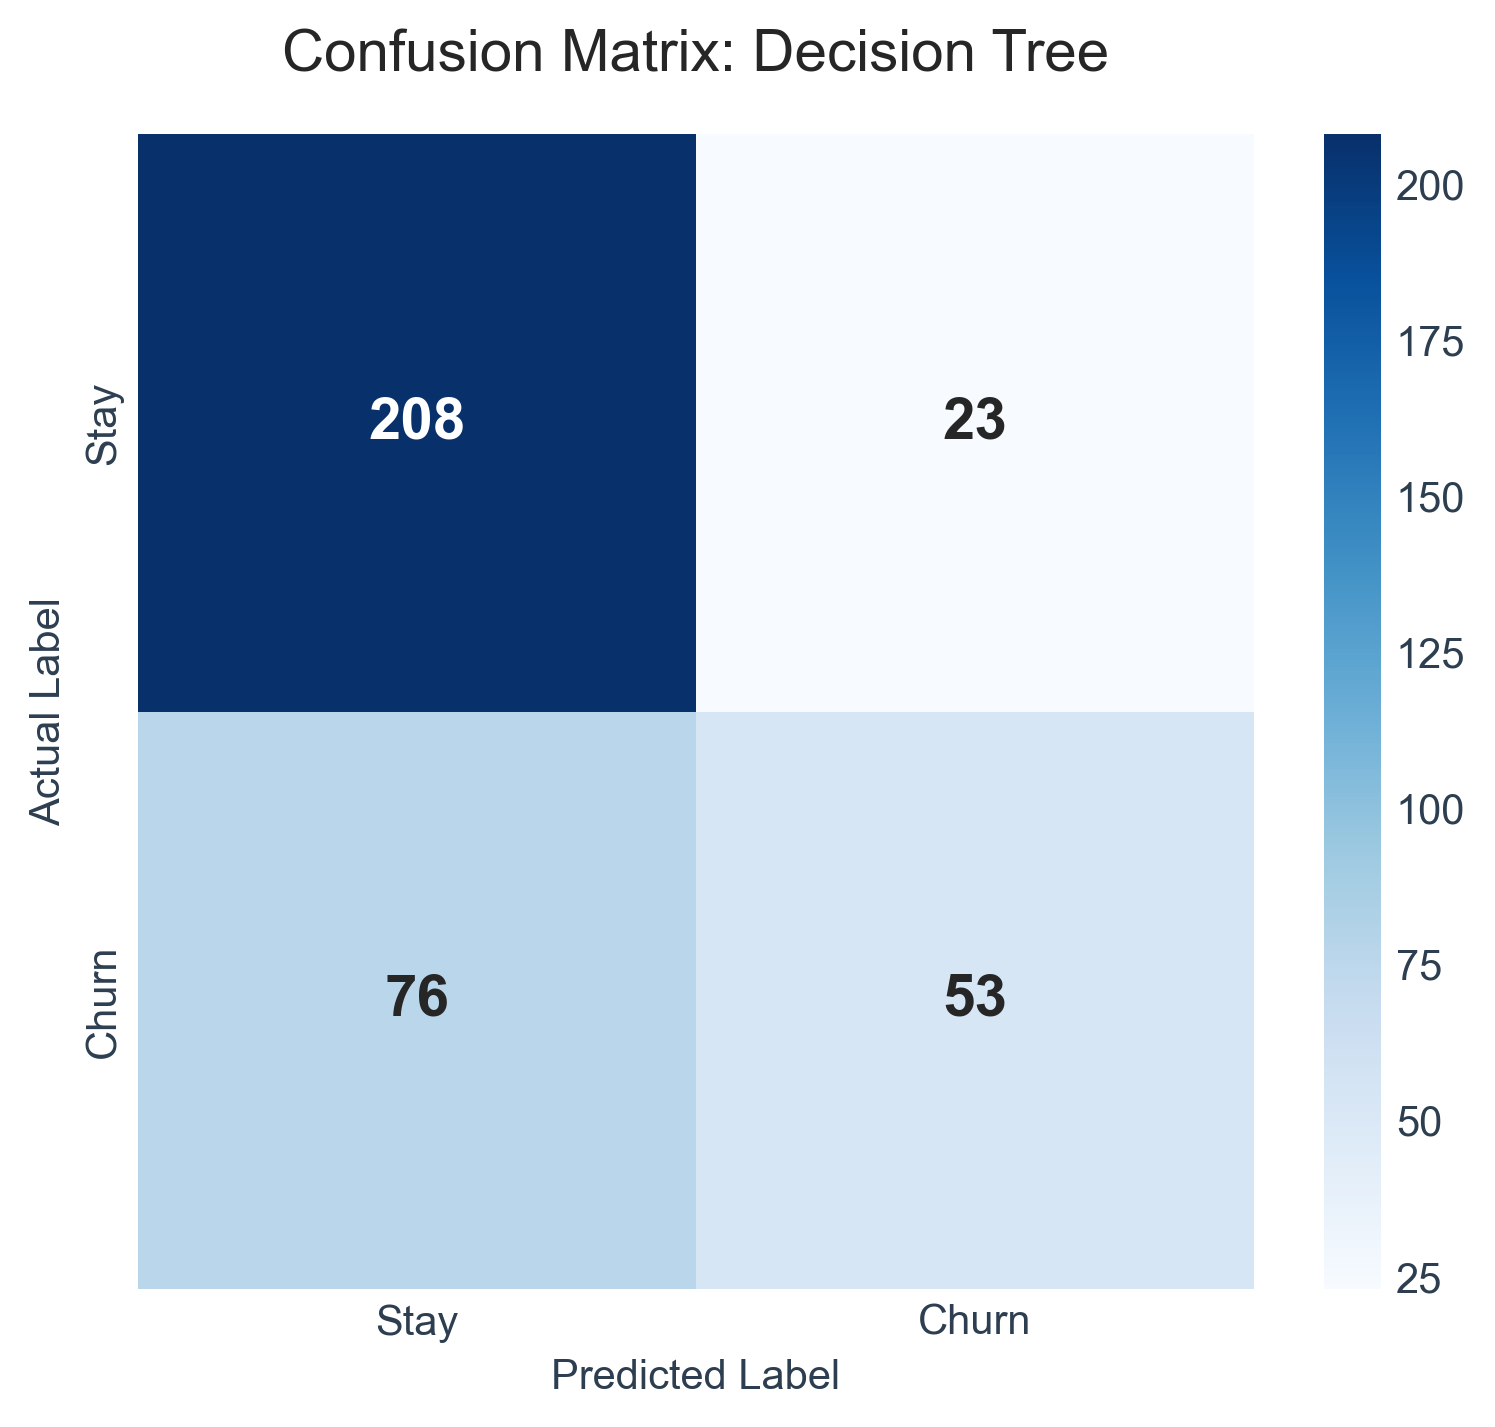
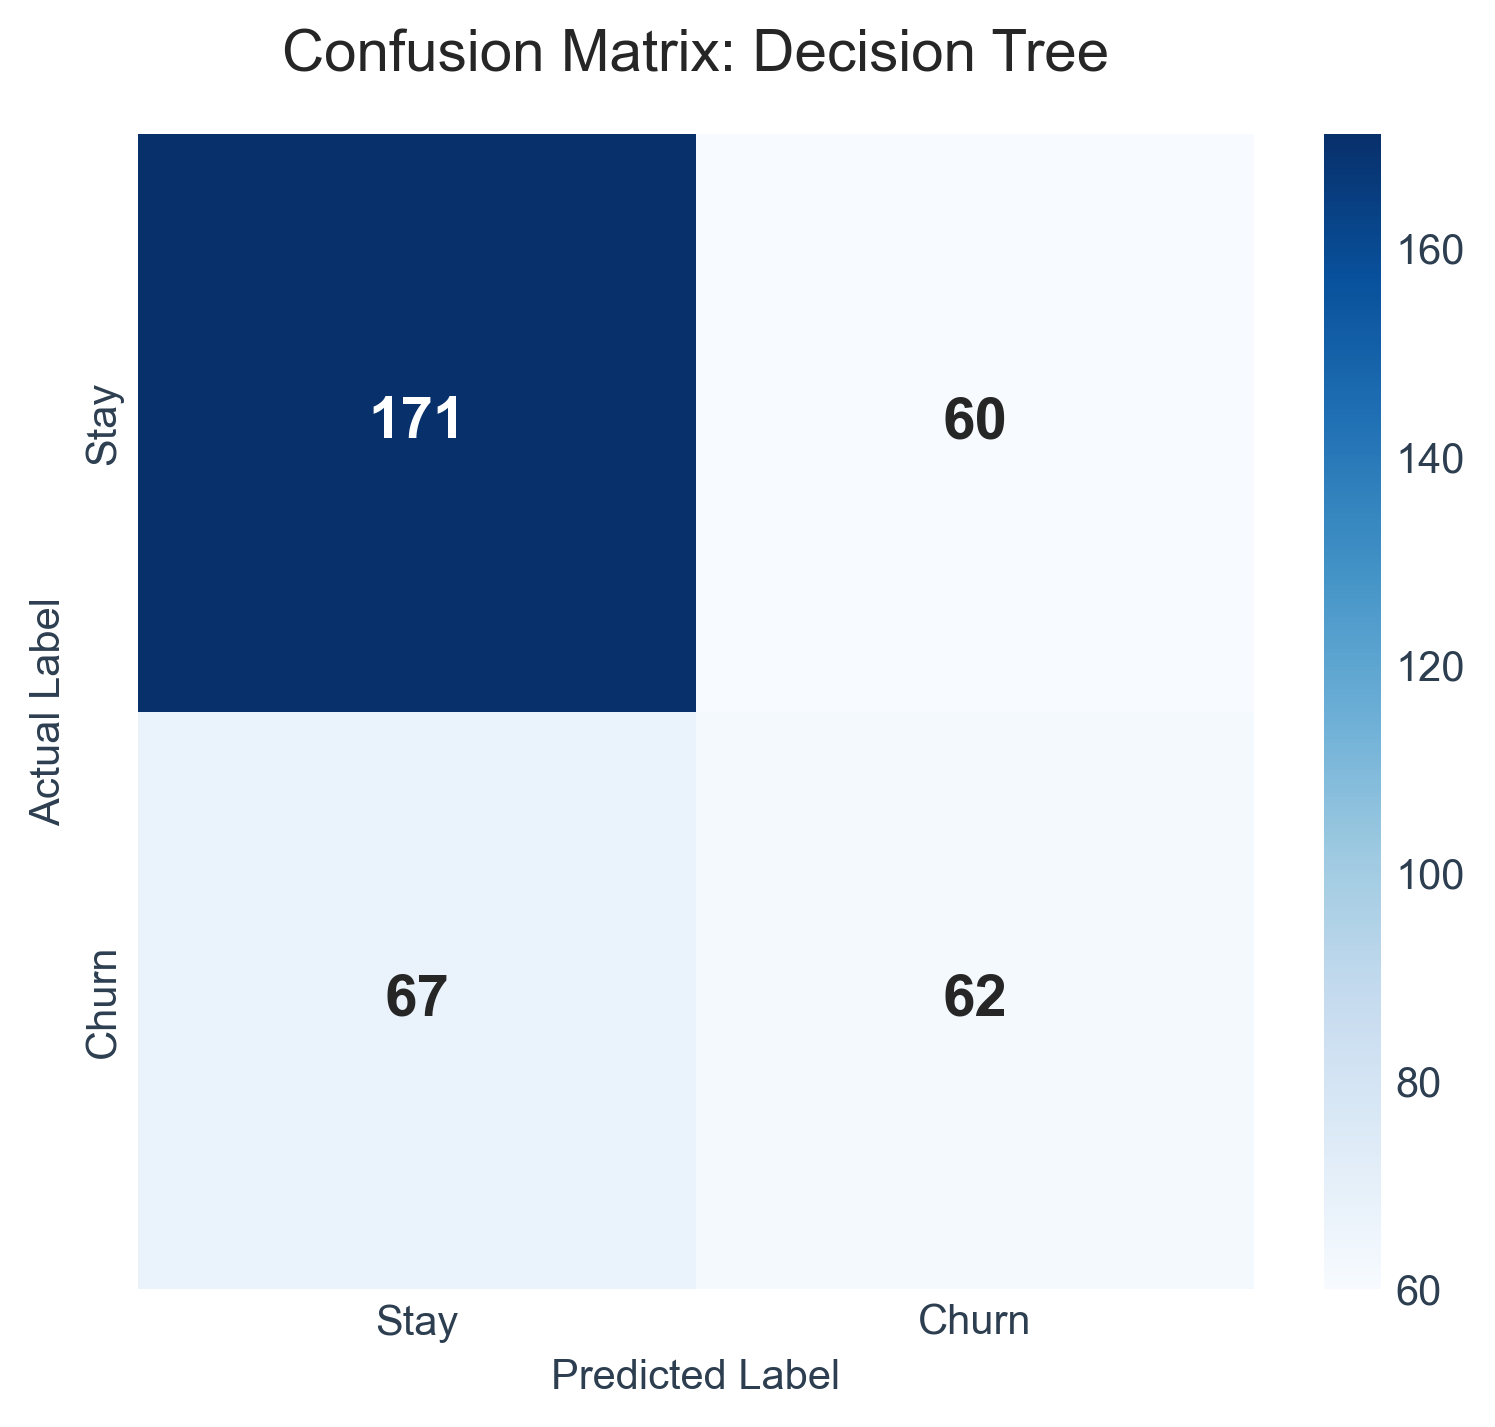
commit

diff --git a/main.py b/main.py
@@ -158,6 +158,7 @@ def main():
     print("\nDeveloping Predictive Models...")
     models = {
         "Logistic Regression": LogisticRegression(random_state=42, max_iter=1000),
+        "Decision Tree": DecisionTreeClassifier(random_state=42),
         "Random Forest": RandomForestClassifier(random_state=42, n_estimators=100)
     }
     

diff --git a/README.md b/README.md
@@ -111,9 +111,10 @@ The dataset (`dataset/part_3_customer_churn_prediction.csv`) contains 1,800 reco
 
 ## 5. Models Used
 
-We built and evaluated two classification models:
+We built and evaluated three classification models:
 1. **Logistic Regression:** A linear model that provides excellent interpretability and probabilities for churn risk.
-2. **Random Forest Classifier:** An ensemble tree-based model that captures non-linear relationships and feature interactions well.
+2. **Decision Tree Classifier:** A tree-based model that creates simple decision rules from features.
+3. **Random Forest Classifier:** An ensemble tree-based model that captures non-linear relationships and feature interactions well.
 
 ---
 
@@ -127,6 +128,15 @@ We built and evaluated two classification models:
 
 ![Confusion Matrix Logistic Regression](images/cm_logistic_regression.png)
 **Interpretation:** The Logistic Regression model correctly predicts 211 retained customers and 53 churned customers. However, it still misclassifies some customers, leading to 42 False Positives and 54 False Negatives.
+
+**Decision Tree:**
+- Accuracy: ~0.65
+- Precision: ~0.51
+- Recall: ~0.48
+- F1 Score: ~0.49
+
+![Confusion Matrix Decision Tree](images/cm_decision_tree.png)
+**Interpretation:** The Decision Tree model correctly predicts 171 retained customers and 62 churned customers. It has a higher number of False Positives (82) and False Negatives (45) compared to the other models, suggesting it may be overfitting or less robust on this dataset.
 
 **Random Forest:**
 - Accuracy: ~0.73
